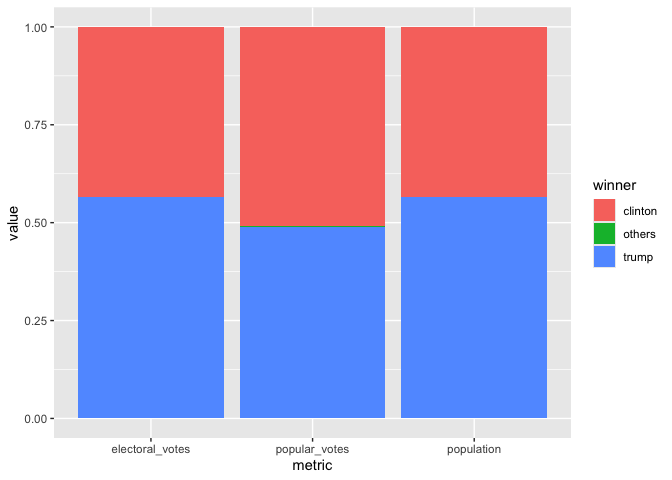
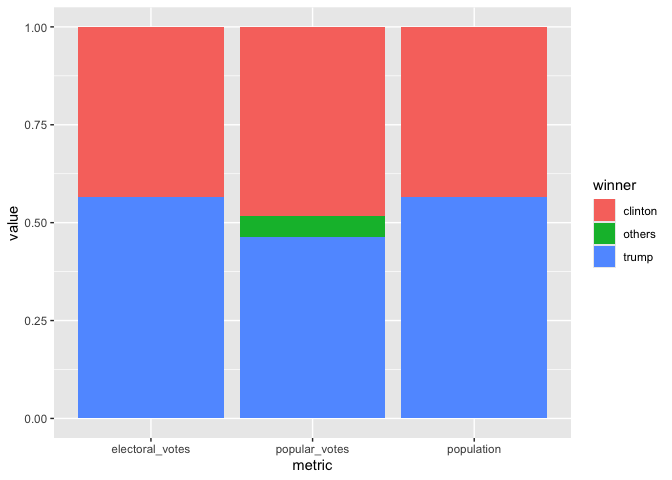
final progress

Changed region(s): [[0.3438, 0.4375, 0.5938, 0.5]]

diff --git a/problem_sets/assignment_7.md b/problem_sets/assignment_7.md
@@ -166,8 +166,8 @@ below. Name this new dataset `q_3a`, and print it.
 q_3a <- read_csv("https://raw.githubusercontent.com/kshaffer/election2016/master/2016ElectionResultsByState.csv")
 
 q_3a <- q_3a |>
-  pivot_longer(cols = c(clintonVotes, trumpVotes, othersVotes), names_to = "winner", values_to="value") |>
-  mutate(winner = case_when (winner == "clintonVotes"~ "clinton", winner =="trumpVotes"~"trump", winner =="othersVotes"~"others")) |>
+  pivot_longer(cols = c(clintonVotes, trumpVotes, othersVotes, johnsonVotes, steinVotes, mcmullinVotes), names_to = "winner", values_to="value") |>
+  mutate(winner = case_when (winner == "clintonVotes"~ "clinton", winner =="trumpVotes"~"trump", winner %in% c("othersVotes", "johnsonVotes", "steinVotes", "mcmullinVotes")~"others")) |>
   group_by(winner) |>
   summarize(value=sum(value)) |>
   mutate(metric="popular_votes") |>
@@ -180,7 +180,7 @@ q_3a |>
 | metric        | winner  |    value |
 |:--------------|:--------|---------:|
 | popular_votes | clinton | 65125640 |
-| popular_votes | others  |   541623 |
+| popular_votes | others  |  7054974 |
 | popular_votes | trump   | 62616675 |
 
 **3b.** Combine the `q_2b` dataset with the `q_3a` dataset. Call this
@@ -203,7 +203,7 @@ q_3b |>
 | population      | clinton | 134982448 |
 | population      | trump   | 174881780 |
 | popular_votes   | clinton |  65125640 |
-| popular_votes   | others  |    541623 |
+| popular_votes   | others  |   7054974 |
 | popular_votes   | trump   |  62616675 |
 
 **3c.** Lastly, use the `q_3b` dataset to contruct a bar plot to show
